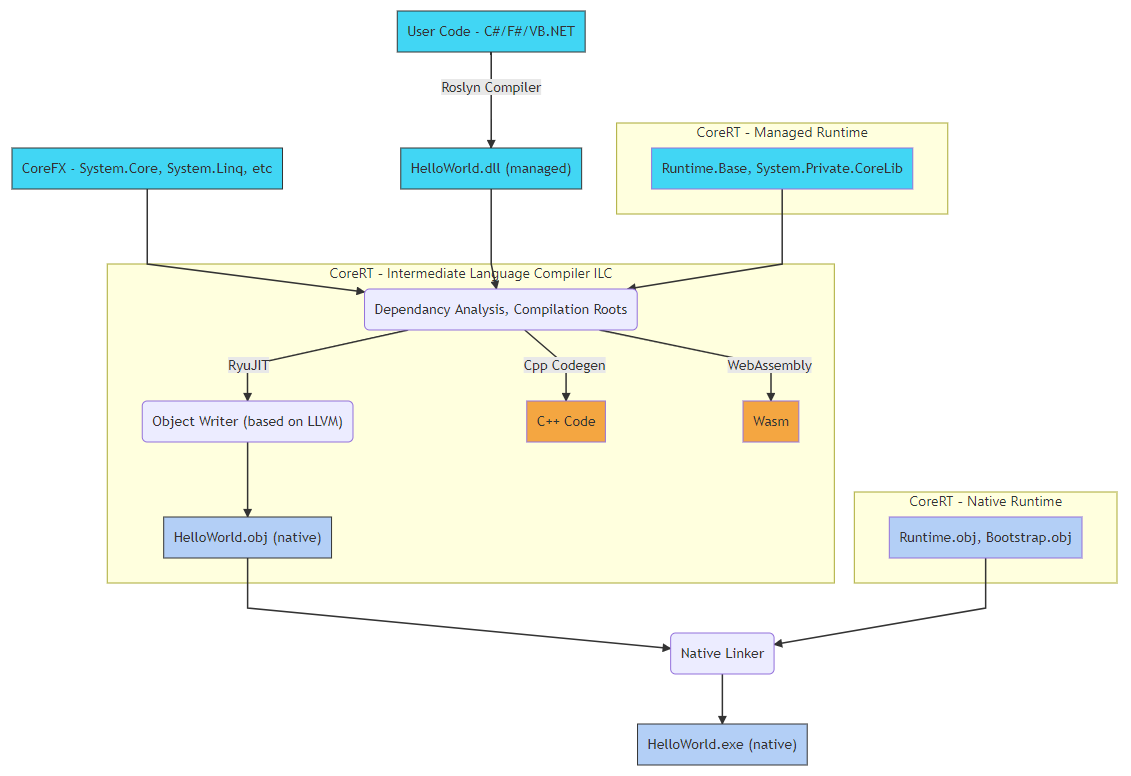
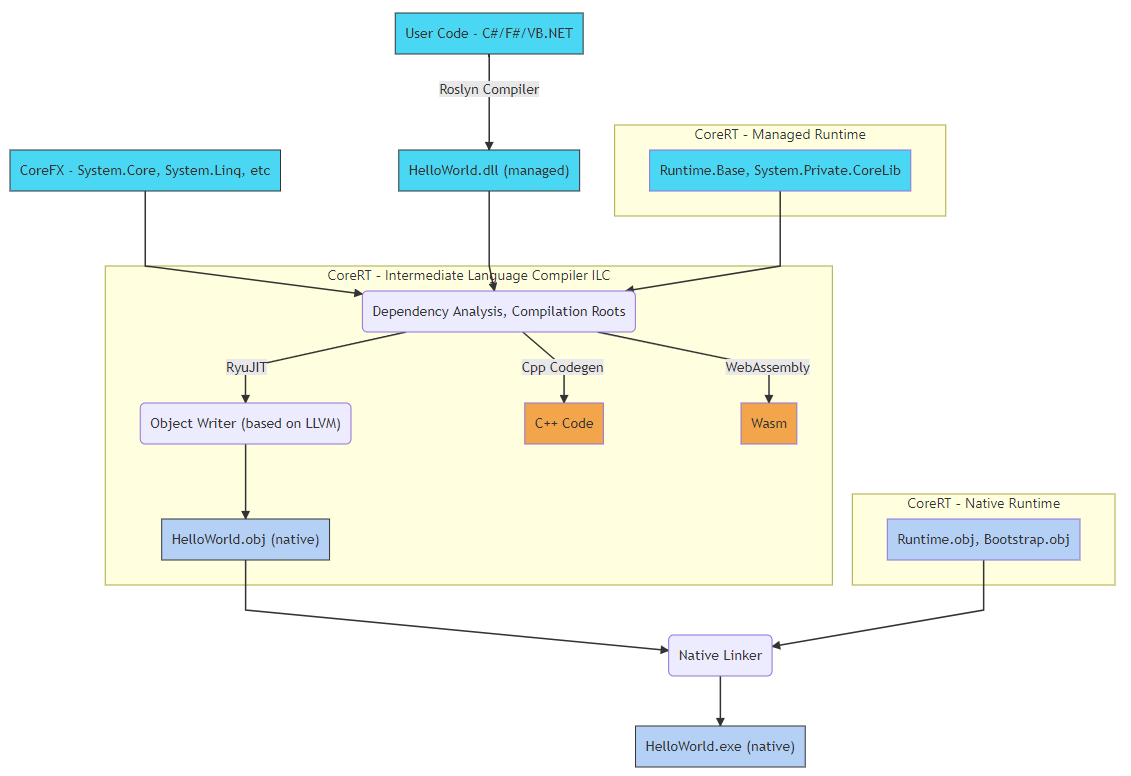
Fixed typos in text/diagram, added HN and /r/dotnet links

diff --git a/_posts/2018-06-07-CoreRT-.NET-Runtime-for-AOT.md b/_posts/2018-06-07-CoreRT-.NET-Runtime-for-AOT.md
@@ -273,7 +273,7 @@ System_Console_System_Console__WriteLine_12:
 
 There have been some people who've successfully run [complex apps using CoreRT](https://www.youtube.com/watch?v=iaC67CUmEXs), but, as it stands CoreRT is still an alpha product. At least according to the [NuGet package '1.0.0-alpha-26529-02'](https://dotnet.myget.org/feed/dotnet-core/package/nuget/Microsoft.DotNet.ILCompiler) that the official samples [instruct you to use](https://github.com/dotnet/corert/tree/master/samples/HelloWorld) and I've not seen any information about when a full 1.0 Release will be available.
 
-So there is some functionality that is not yet implemented, e.g. [F# Support](https://github.com/dotnet/corert/issues/5780), [Implement GC.GetMemoryInfo](https://github.com/dotnet/corert/issues/5680) or [canGetCookieForPInvokeCalliSig not implemented](https://github.com/dotnet/corert/issues/5587). For more information on this I recommend this entertaining presentation on [Building Native Executables from .NET with CoreRT](https://vimeo.com/262938007) by [Mark Rendle](https://twitter.com/markrendle). In the 2nd half he chronicles all the issues that he ran into when he was trying to run an ASP.NET app under CoreRT (some of which may well be fixed now).
+So there is some functionality that is not yet implemented, e.g. [F# Support](https://github.com/dotnet/corert/issues/5780), [GC.GetMemoryInfo](https://github.com/dotnet/corert/issues/5680) or [canGetCookieForPInvokeCalliSig](https://github.com/dotnet/corert/issues/5587) (a `calli` to a p/invoke). For more information on this I recommend this entertaining presentation on [Building Native Executables from .NET with CoreRT](https://vimeo.com/262938007) by [Mark Rendle](https://twitter.com/markrendle). In the 2nd half he chronicles all the issues that he ran into when he was trying to run an ASP.NET app under CoreRT (some of which may well be fixed now).
 
 <iframe src="https://player.vimeo.com/video/262938007" width="640" height="360" frameborder="0" webkitallowfullscreen mozallowfullscreen allowfullscreen></iframe>
 
@@ -308,6 +308,10 @@ I'm sure this will be solved one way or the other (see [#5011](https://github.co
 
 ----
 
+Discuss this post on [HackerNews](https://news.ycombinator.com/item?id=17261117) and [/r/dotnet](https://www.reddit.com/r/dotnet/comments/8pdt98/corert_a_net_runtime_for_aot_performance_is_a/)
+
+----
+
 <span id="furtherreading"/>
 # Further Reading
 
@@ -324,3 +328,4 @@ If you've got this far, here's some other links that you might be interested in:
 - [An introduction to IL2CPP internals](https://blogs.unity3d.com/2015/05/06/an-introduction-to-ilcpp-internals/)
 - [.NET Native Performance and Internals](http://blogs.microsoft.co.il/sasha/2014/04/28/net-native-performance-internals/)
 - [Dynamic Tracing of .NET Core Methods](http://blogs.microsoft.co.il/sasha/2018/02/08/dynamic-tracing-of-net-core-methods/)
+- [Generic sharing for valuetypes](http://www.mono-project.com/docs/advanced/runtime/docs/gsharedvt/) (Mono)
